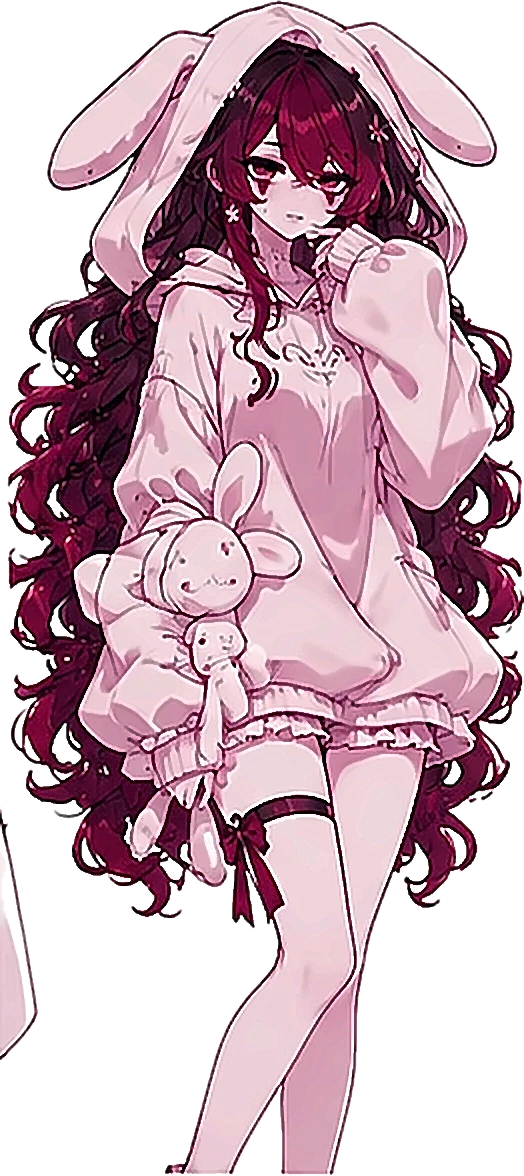
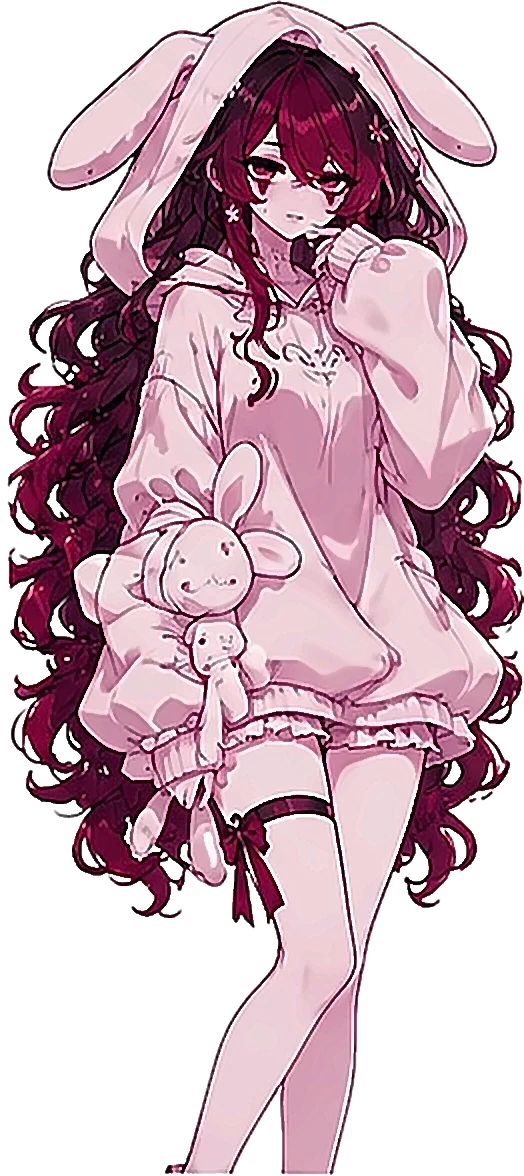
Bunny pajamas: remove a stray piece of the next outfit floating by her hip
Claude-Session: https://claude.ai/code/session_01WGxcBkyYwxg5pKWxF7e3SB

Changed region(s): [[0.0, 0.6735, 0.0916, 0.9184]]

diff --git a/index.html b/index.html
@@ -445,7 +445,7 @@ nav button svg{display:none}
           <div class="mirTag">WARDROBE</div>
           <div class="mirIn">
             <div class="mirShadow"></div>
-            <img id="look0" class="look on" alt="Cerise, full body" src="img/outfits/jester.webp?v=20261127182524">
+            <img id="look0" class="look on" alt="Cerise, full body" src="img/outfits/jester.webp?v=20261127225737">
             <img id="look1" class="look" alt="">
             <div class="mirFlash" id="mirFlash"></div>
           </div>
@@ -555,7 +555,7 @@ nav button svg{display:none}
       </div>
       <div class="group"><h3>What she remembers</h3><div id="memList"></div></div>
       <button class="btn ghost" id="s-clear" type="button">Clear chat history</button>
-      <p style="color:var(--mute);font-size:12px;text-align:center;margin-top:18px">Cerise build 20261127182524 · settings save automatically</p>
+      <p style="color:var(--mute);font-size:12px;text-align:center;margin-top:18px">Cerise build 20261127225737 · settings save automatically</p>
     </div></section>
   </main>
   <nav>
@@ -577,7 +577,7 @@ const VAR = { neutral:['F01'], cold:['F26','F19'], sad:['F22','F05'], bored:['F1
   pout:['F08','F11'], flustered:['F08','F29'], shy:['F29','F11'], love:['F17','F25'], excited:['F24'], cry:['F18'], teary:['F05'], sleepy:['F28'], sleeping:['F09'],
   blank:['F30'], dark:['F20','F23'], sick:['F27'] };
 const MOODS = Object.keys(VAR);
-const VER = '20261127182524';
+const VER = '20261127225737';
 // her wardrobe (Her tab): she changes outfit to fit what you talk about
 const OUTFITS = [
   { id: 'jester', name: 'The Crimson Jester', short: 'Jester', sub: 'Her signature',
